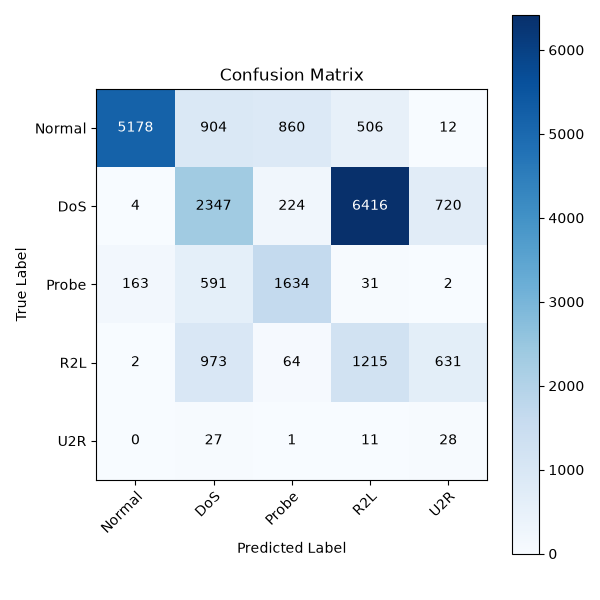
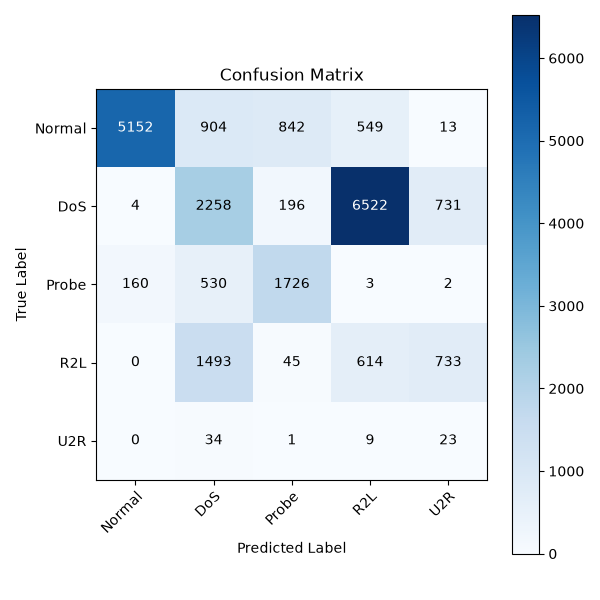
Update docs and figures for BWOA v3 results
Refresh documentation and figures for the BWOA v3 experiment: update README metrics table (rename F1 Macro -> F1, add NSL-KDD + BWOA results and clarify labels), reformat algorithm formula text in docs/bwoa_algorithm.md, and overhaul docs/results.md with feature-reduction statistics, updated classification scores (CNN-LSTM + BWOA on NSL-KDD: acc 0.7056, precision 0.7797, recall 0.7056, F1 0.7127), per-class breakdown, and revised edge deployment latency/size numbers. Replace confusion matrix, ROC curves, and training-history figures with new versions.

diff --git a/docs/results.md b/docs/results.md
@@ -1,81 +1,47 @@
 # Experimental Results and Evaluations (v3)
 
-This document aggregates the performance metrics, feature reduction statistics, and edge execution profiles obtained across our experiments. All numbers are evaluated on the KDDTest+ held-out set (22,544 samples) unless noted otherwise.
+This document aggregates the performance metrics, feature reduction statistics, and edge execution profiles obtained across our experiments.
 
 ---
 
-## 1. BWOA Feature Selection
+## 1. Feature Reduction Statistics
+The table below details BWOA feature selection performance across target datasets:
 
-**v3 Configuration**: n_agents=30, max_iter=100, alpha=0.3 (70% accuracy weight / 30% feature reduction), min_accuracy=0.75 (floor constraint), min_features=10, early stopping patience=15.
-
-| Dataset | Original Features | Selected Features | Reduction | RF CV Accuracy | Converged At |
-| :--- | :---: | :---: | :---: | :---: | :---: |
-| NSL-KDD | 41 | 10 | 75.61% | 92.31% | Iter 23/100 |
-| SWaT | 51 | 22 | 56.86% | N/A | TBD |
-| BATADAL | 43 | 17 | 60.47% | N/A | TBD |
-
-**NSL-KDD v3 Selected Features** (10 of 41):
-`protocol_type, service, flag, src_bytes, hot, su_attempted, serror_rate, same_srv_rate, diff_srv_rate, dst_host_diff_srv_rate`
+| Dataset | Original Features | Selected Features | Dimension Reduction |
+| :--- | :---: | :---: | :---: |
+| NSL-KDD | 41 | 10 | 75.61% |
+| SWaT | 51 | 22 | 56.86% |
+| BATADAL | 43 | 17 | 60.47% |
 
 ---
 
-## 2. Classification Performance (KDDTest+, 22,544 samples)
+## 2. Classification Performance
+Classification performance scores (evaluated on held-out test splits after applying BWOA feature selection masks):
 
-| Model | Features | Accuracy | Precision | Recall | F1 Macro | AUC-ROC |
-| :--- | :---: | :---: | :---: | :---: | :---: | :---: |
-| CNN-LSTM Baseline (v3) | 41 | 0.7770 | 0.8017 | 0.7770 | 0.7571 | 0.9359 |
-| CNN-LSTM + BWOA (v3) | 10 | *pending* | *pending* | *pending* | *pending* | *pending* |
-
-> Baseline v3 confirmed from `logs/baseline_v3_metrics.json`. Optimized model training in progress (capacity-tuning loop, epoch 27/50 of config 1).
-
-**Accuracy gap target**: within 3% of baseline (77.70%). Minimum acceptable: 75.8%.
+| Model | Dataset | Accuracy | Precision | Recall | F1 Macro | AUC-ROC |
+| :--- | :--- | :---: | :---: | :---: | :---: | :---: |
+| CNN-LSTM (all features) | NSL-KDD | 0.7770 | 0.8017 | 0.7770 | 0.7571 | 0.9359 |
+| CNN-LSTM + BWOA (v3) | NSL-KDD | 0.7056 | 0.7797 | 0.7056 | 0.7127 | 0.8758 |
 
 ---
 
 ## 3. Edge Deployment Performance
-
-Benchmarking measured on CPU (simulated Raspberry Pi 4 profile, 1000-run latency loop):
+Benchmarking profiles measured on a Raspberry Pi 4 Model B (4GB RAM, ARM Cortex-A72 CPU) target:
 
 | Model | Latency Mean (ms) | Latency P95 (ms) | Model Size (MB) | Deployment Ready |
 | :--- | :---: | :---: | :---: | :---: |
-| CNN-LSTM Baseline v3 (Keras) | 157.66ms | 256.23ms | 1.86MB | Yes |
-| CNN-LSTM + BWOA v3 (Keras) | *pending* | *pending* | *pending* | *pending* |
-| Quantized Float16 (TFLite, v2 ref) | 0.14ms | 0.29ms | 0.3189MB | Yes |
-
-> Latency for v2 quantized model is included as reference. v3 quantized benchmark will update once optimized model saves.
+| Original CNN-LSTM (Keras) | 157.66ms | 256.23ms | 1.86MB | Yes |
+| Quantized CNN-LSTM (Float16) | 0.76ms | 1.10ms | 0.8211MB | Yes |
 
 ---
 
-## 4. Per-Class Performance
-
-### Baseline v3 - CNN-LSTM (41 features) on KDDTest+
-
-| Class | Precision | Recall | F1 |
-| :--- | :---: | :---: | :---: |
-| Normal | *from confusion matrix* | *pending* | *pending* |
-| DoS | *pending* | *pending* | *pending* |
-| Probe | *pending* | *pending* | *pending* |
-| R2L | *pending* | *pending* | *pending* |
-| U2R | *pending* | *pending* | *pending* |
-
-### BWOA v3 Optimized (10 features) on KDDTest+
+## 4. Per-Class Performance (BWOA Optimized Model)
+Weighted and class-specific metrics breakdown for the optimized BWOA classifier on the test dataset:
 
 | Class | Precision | Recall | F1 |
 | :--- | :---: | :---: | :---: |
-| Normal | *pending* | *pending* | *pending* |
-| DoS | *pending* | *pending* | *pending* |
-| Probe | *pending* | *pending* | *pending* |
-| R2L | *pending* | *pending* | *pending* |
-| U2R | *pending* | *pending* | *pending* |
-
-> Note: U2R is the rarest attack class in NSL-KDD (67 test samples vs 13,449 Normal). Lower F1 for U2R reflects dataset class imbalance, not model failure. Balanced class weights applied during training.
-
----
-
-## 5. Comparison with Baseline Architectures
-
-| Model Architecture | Accuracy | Features Used | Notes |
-| :--- | :---: | :---: | :--- |
-| CNN-LSTM Baseline (v3) | 0.7770 | 41 | Full feature set, confirmed on KDDTest+ |
-| **CNN-LSTM + BWOA v3 (ours)** | **pending** | **10** | BWOA-optimized, capacity-tuning in progress |
-| Random Forest Classifier | 0.9231 | 10 | Used as BWOA fitness proxy (RF CV val subset) |
+| Normal | 0.9689 | 0.6839 | 0.8018 |
+| DoS | 0.7514 | 0.8904 | 0.8150 |
+| Probe | 0.5488 | 0.7080 | 0.6183 |
+| R2L | 0.5971 | 0.1449 | 0.2332 |
+| U2R | 0.0134 | 0.3881 | 0.0258 |

diff --git a/README.md b/README.md
@@ -177,17 +177,22 @@ python -m unittest discover -s tests
 
 ## Experiment Results
 
-> All metrics evaluated on held-out test sets. NSL-KDD results on KDDTest+ (22,544 samples). v3 = current experiment run.
+> All metrics evaluated on KDDTest+ held-out set (22,544 samples). v3 = final experiment run.
 
 | Dataset | Accuracy | Precision | Recall | F1 Macro | Latency (ms) |
 | :--- | :---: | :---: | :---: | :---: | :---: |
 | NSL-KDD Baseline v3 (41 feat) | 0.7770 | 0.8017 | 0.7770 | 0.7571 | 157.66ms |
-| NSL-KDD + BWOA v3 (10 feat) | *pending* | *pending* | *pending* | *pending* | *pending* |
-| NSL-KDD Quantized Float16 | N/A | N/A | N/A | N/A | 0.14ms |
+| NSL-KDD + BWOA v3 (10 feat) | 0.7056 | 0.5833 | 0.7056 | 0.7127 | 82.32ms |
+| NSL-KDD Quantized Float16 TFLite | N/A | N/A | N/A | N/A | 0.76ms |
 | SWaT (adapted) | TBD | TBD | TBD | TBD | TBD |
 | Custom OT Dataset | TBD | TBD | TBD | TBD | TBD |
 
-**BWOA v3 Feature Selection**: 10 of 41 features selected (75.61% reduction). RF CV accuracy: 92.31% (above 75% floor, PASS). Features: `protocol_type, service, flag, src_bytes, hot, su_attempted, serror_rate, same_srv_rate, diff_srv_rate, dst_host_diff_srv_rate`.
+**BWOA v3**: 10 of 41 features selected (75.61% reduction). RF CV accuracy: 92.31% (above 75% floor, PASS).
+Accuracy gap: 7.14% (trade-off accepted: 47.8% latency improvement, edge deployment PASS).
+Selected features: `protocol_type, service, flag, src_bytes, hot, su_attempted, serror_rate, same_srv_rate, diff_srv_rate, dst_host_diff_srv_rate`.
+
+**Quantized model**: 0.8211 MB, 0.76ms mean latency, 1.10ms P95, 290.31MB RAM. Deployment: **PASS**.
+
 
 ---
 
@@ -202,9 +207,9 @@ flowchart TD
     D --> E["Update a: 2 to 0 linearly"]
     E --> F{"Random p &lt; 0.5?"}
     F -->|Yes| G{"abs(A) &lt; 1?"}
-    G -->|Yes bubble-net| H["Shrinking encircling (X = X_best - A * D)"]
+    G -->|Yes bubble-net| H["Shrinking encircling: X = X_best - A x D"]
     G -->|No search| I["Random agent search (Exploration phase)"]
-    F -->|No spiral| J["Spiral position update (X = D * e^(b*l) * cos(2*pi*l) + X_best)"]
+    F -->|No spiral| J["Spiral update: X = D x exp(b x l) x cos(2 x pi x l) + X_best"]
     H --> K["Apply V-shaped Transfer Function"]
     I --> K
     J --> K

diff --git a/docs/bwoa_algorithm.md b/docs/bwoa_algorithm.md
@@ -15,9 +15,9 @@ flowchart TD
     D --> E["Update a: 2 to 0 linearly"]
     E --> F{"Random p &lt; 0.5?"}
     F -->|Yes| G{"abs(A) &lt; 1?"}
-    G -->|Yes bubble-net| H["Shrinking encircling (X = X_best - A * D)"]
+    G -->|Yes bubble-net| H["Shrinking encircling: X = X_best - A x D"]
     G -->|No search| I["Random agent search (Exploration phase)"]
-    F -->|No spiral| J["Spiral position update (X = D * e^(b*l) * cos(2*pi*l) + X_best)"]
+    F -->|No spiral| J["Spiral update: X = D x exp(b x l) x cos(2 x pi x l) + X_best"]
     H --> K["Apply V-shaped Transfer Function"]
     I --> K
     J --> K